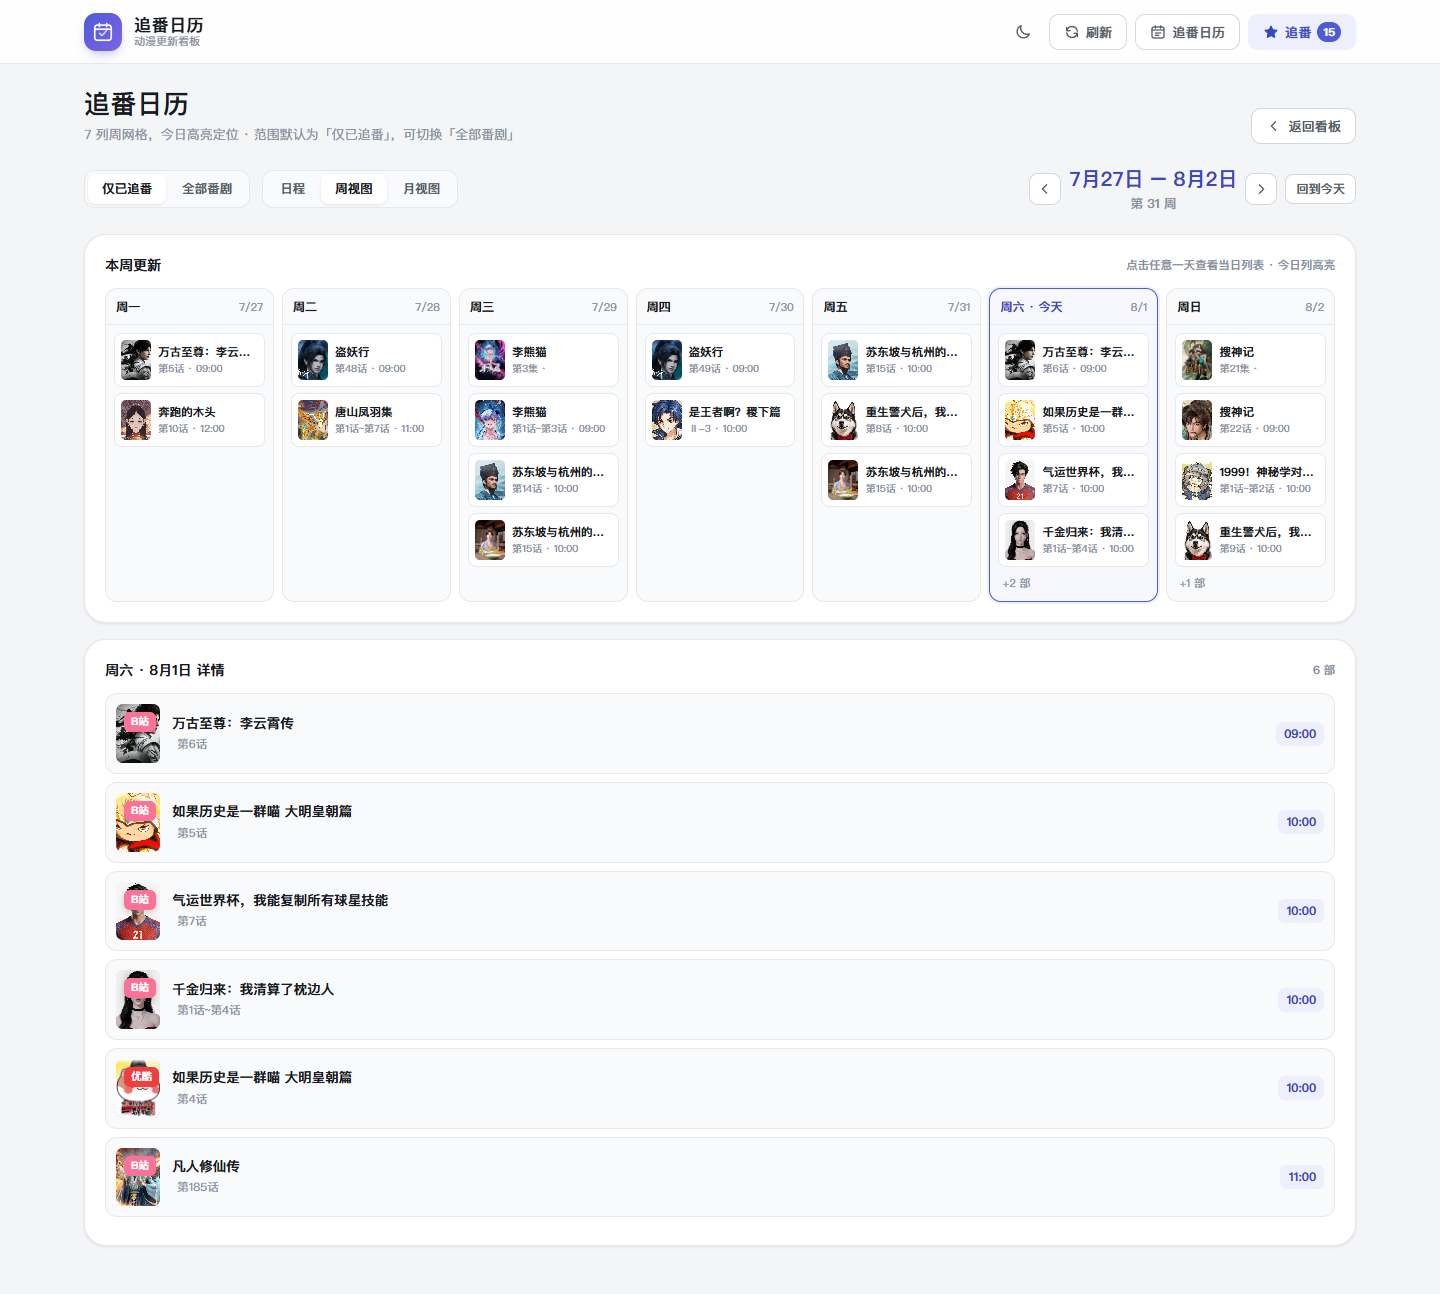
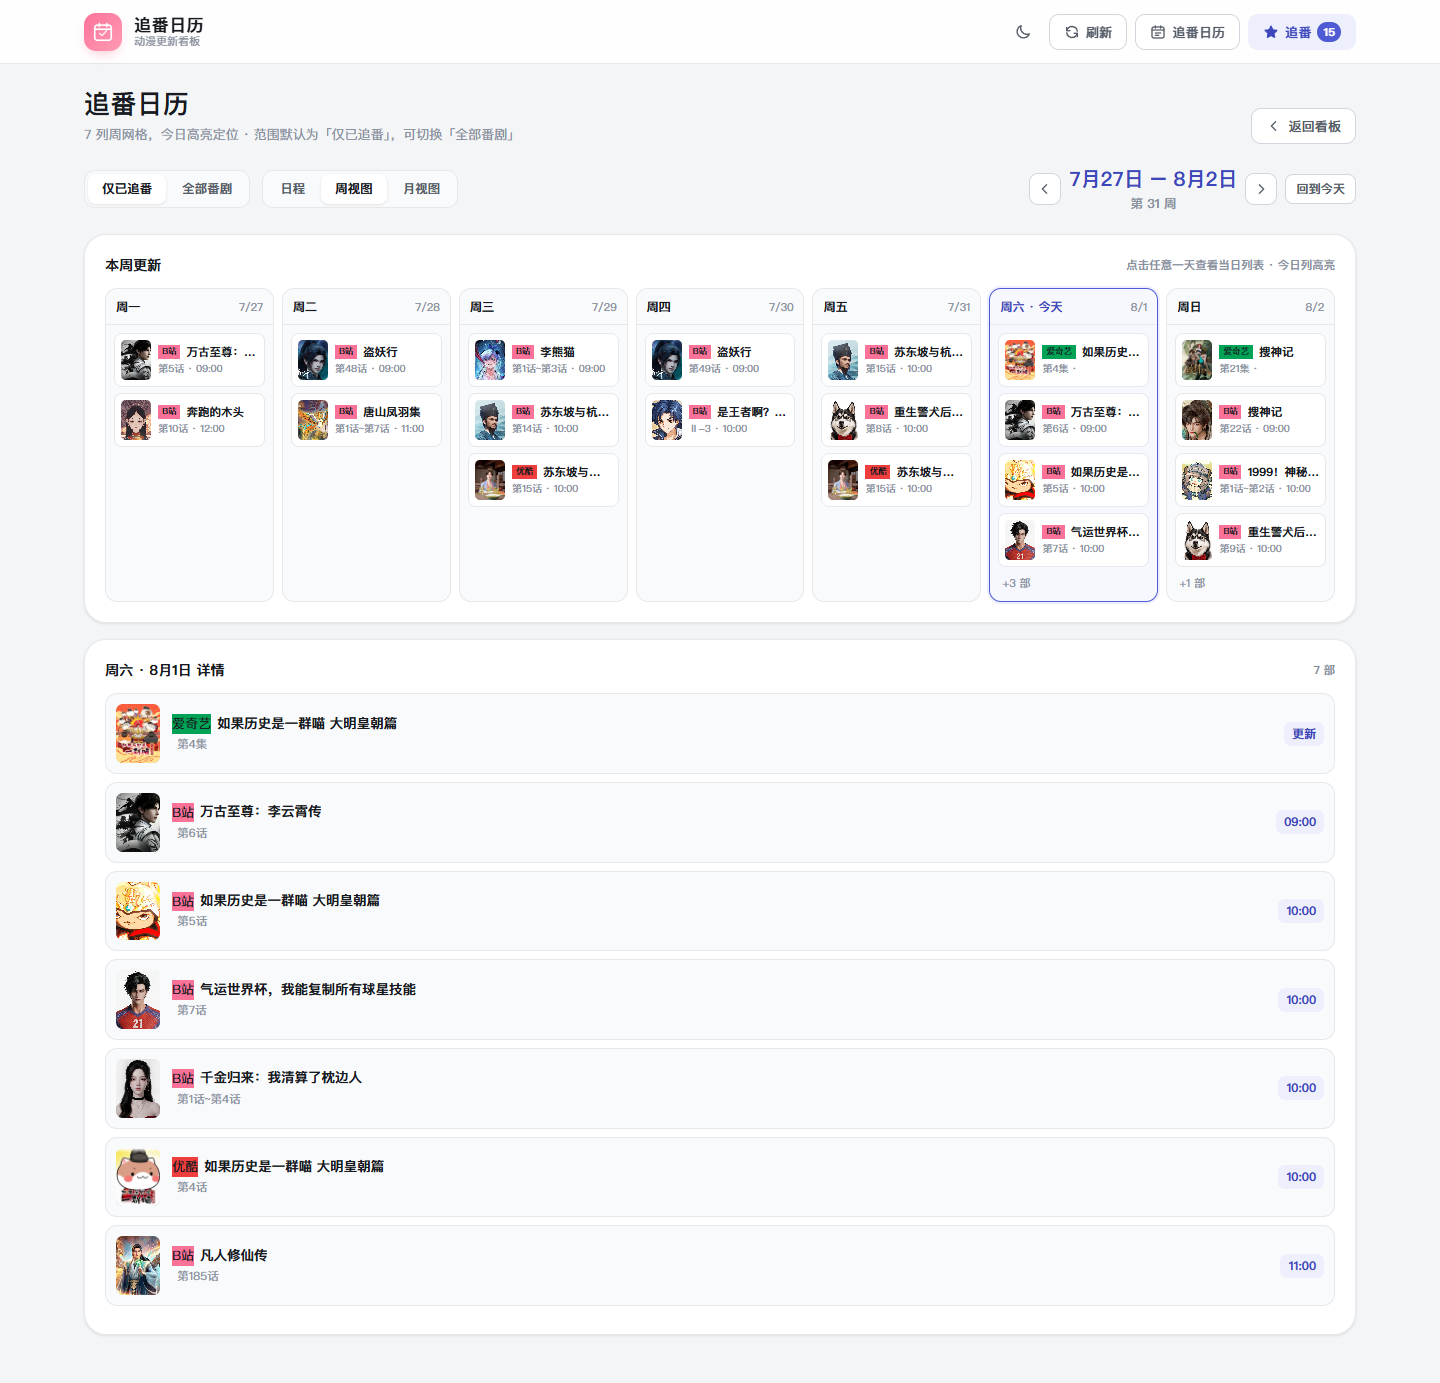
feat: calendar plat-chip before title, 15-min filter, follow page inline info, pink brand mark, cqdy badge

diff --git a/src/styles.css b/src/styles.css
@@ -126,12 +126,12 @@ svg { display: block; }
 .brand { display: flex; align-items: center; gap: var(--s3); }
 .brand-mark {
   width: 38px; height: 38px; border-radius: 12px;
-  background: linear-gradient(135deg, var(--accent), #7C63E8);
+  background: linear-gradient(135deg, #FB7299, #FF9BB3);
   color: #fff; display: grid; place-items: center;
-  box-shadow: 0 6px 14px -6px rgba(79,91,213,.55);
+  box-shadow: 0 6px 14px -6px rgba(251,114,153,.55);
 }
 .brand-mark svg { width: 22px; height: 22px; stroke: currentColor; stroke-width: 1.8; stroke-linecap: round; stroke-linejoin: round; }
-.brand-mark svg path:last-child { stroke: #CFD5FF; }
+.brand-mark svg path:last-child { stroke: #FFE3EC; }
 .brand-text { display: flex; flex-direction: column; line-height: 1.2; }
 .brand-name { font-size: 17px; font-weight: 700; letter-spacing: .5px; }
 .brand-sub { font-size: 11px; color: var(--ink-3); }
@@ -345,6 +345,7 @@ svg { display: block; }
 .tag.mianfei { background: var(--success-soft); color: var(--success); }
 .tag.shangxin { background: var(--danger-soft); color: var(--danger); }
 .tag.wanjie { background: var(--surface-2); color: var(--ink-3); border: 1px solid var(--line); }
+.tag.cqdy { background: color-mix(in srgb, var(--accent) 14%, var(--surface)); color: var(--accent-ink); border: 1px solid color-mix(in srgb, var(--accent) 40%, transparent); }
 
 /* ---------- Platform identity ---------- */
 .plat-logo { width: 16px; height: 16px; flex: none; display: inline-flex; border-radius: 5px; overflow: hidden; }
@@ -499,7 +500,7 @@ svg { display: block; }
   transition: border-color .16s;
 }
 .follow-item.open { border-color: var(--accent); }
-.fi-head { display: flex; align-items: center; gap: var(--s3); padding: var(--s3) var(--s4); cursor: pointer; }
+.fi-head { display: flex; align-items: center; gap: var(--s3); padding: var(--s3) var(--s4); }
 .fi-head .star-btn { position: static; width: 30px; height: 30px; flex: none; margin-left: 2px; background: transparent; box-shadow: none; color: #F5A623; }
 .fi-head .star-btn::before { display: none; }
 .fi-head .star-btn svg { fill: #F5A623; stroke: #F5A623; }
@@ -508,10 +509,7 @@ svg { display: block; }
 .fi-info { flex: 1; min-width: 0; }
 .fi-title { font-size: 15px; font-weight: 700; display: flex; align-items: center; gap: 6px; }
 .fi-sub { font-size: 12px; color: var(--ink-3); margin-top: 2px; }
-.fi-chevron { color: var(--ink-3); width: 20px; height: 20px; stroke: currentColor; stroke-width: 2; stroke-linecap: round; stroke-linejoin: round; transition: transform .18s; }
-.follow-item.open .fi-chevron { transform: rotate(180deg); }
-.fi-body { border-top: 1px solid var(--line); padding: var(--s3) var(--s4); display: none; flex-direction: column; gap: 8px; }
-.follow-item.open .fi-body { display: flex; }
+.fi-body { border-top: 1px solid var(--line); padding: var(--s3) var(--s4); display: flex; flex-direction: column; gap: 8px; }
 .fi-plat {
   display: flex; align-items: center; gap: 10px;
   padding: 8px 10px; border-radius: 10px; background: var(--surface-2); border: 1px solid var(--line);
@@ -552,6 +550,7 @@ svg { display: block; }
 .cal-item .poster { width: 44px; aspect-ratio: 3/4; border-radius: 7px; flex: none; }
 .cal-item .poster .ph-glyph { font-size: 11px; }
 .cal-item-main { flex: 1; min-width: 0; }
+.cal-item-title-row { display: flex; align-items: center; gap: 6px; min-width: 0; }
 .cal-item-title { font-size: 13.5px; font-weight: 700; overflow: hidden; text-overflow: ellipsis; white-space: nowrap; }
 .cal-item-meta { font-size: 11.5px; color: var(--ink-3); margin-top: 2px; display: flex; align-items: center; gap: 5px; }
 .cal-item-time {
@@ -564,6 +563,8 @@ svg { display: block; }
 .preview-item .poster { width: 34px; aspect-ratio: 3/4; border-radius: 6px; flex: none; }
 .preview-item .poster .ph-glyph { font-size: 9px; }
 .preview-item-main { flex: 1; min-width: 0; }
+.preview-item .plat-chip { font-size: 9px; height: 16px; padding: 0 5px; }
+.preview-item .cal-item-title-row .preview-item-title { flex: 1; }
 .preview-item-title { font-size: 12.5px; font-weight: 600; white-space: nowrap; overflow: hidden; text-overflow: ellipsis; }
 .preview-item-meta { font-size: 11px; color: var(--ink-3); }
 
@@ -588,6 +589,8 @@ svg { display: block; }
 .week-item .poster { width: 30px; aspect-ratio: 3/4; border-radius: 5px; flex: none; }
 .week-item .poster .ph-glyph { font-size: 8px; }
 .week-item-main { flex: 1; min-width: 0; }
+.week-item .plat-chip { font-size: 8.5px; height: 14px; padding: 0 4px; }
+.week-item .cal-item-title-row .week-item-title { flex: 1; }
 .week-item-title { font-size: 11.5px; font-weight: 600; white-space: nowrap; overflow: hidden; text-overflow: ellipsis; }
 .week-item-time { font-size: 10px; color: var(--ink-3); }
 

diff --git a/src/views/FollowView.tsx b/src/views/FollowView.tsx
@@ -1,5 +1,5 @@
 import { useRef, useState } from "react";
-import { ChevronDownIcon, DownloadIcon, ExternalIcon, SearchIcon, UploadIcon } from "../lib/icons";
+import { ChevronLeftIcon, DownloadIcon, ExternalIcon, SearchIcon, UploadIcon } from "../lib/icons";
 import { PLATFORMS, platShort, PlatformLogo } from "../lib/platforms";
 import { posterGlyph, posterStyle } from "../lib/poster";
 import { posterForTitle } from "../lib/items";
@@ -15,7 +15,6 @@ export function FollowView({ onNavigate }: { onNavigate: (p: Page) => void }) {
   const toast = useToast();
   const [query, setQuery] = useState("");
   const [filter, setFilter] = useState<Filter>("all");
-  const [open, setOpen] = useState<Set<string>>(() => new Set());
   const fileRef = useRef<HTMLInputElement>(null);
 
   const list = Object.values(follows)
@@ -25,15 +24,6 @@ export function FollowView({ onNavigate }: { onNavigate: (p: Page) => void }) {
       return okQ && okP;
     })
     .sort((a, b) => (a.followedAt || "").localeCompare(b.followedAt || ""));
-
-  const toggleOpen = (key: string) => {
-    setOpen((prev) => {
-      const next = new Set(prev);
-      if (next.has(key)) next.delete(key);
-      else next.add(key);
-      return next;
-    });
-  };
 
   const onExport = () => {
     const blob = new Blob([exportJson()], { type: "application/json" });
@@ -68,6 +58,9 @@ export function FollowView({ onNavigate }: { onNavigate: (p: Page) => void }) {
           <div className="sub">共 {count} 部 · 仅保存在本机（localStorage），支持导出/导入 JSON 备份</div>
         </div>
         <div style={{ display: "flex", gap: 8 }}>
+          <button className="btn ghost" onClick={() => onNavigate("home")}>
+            <ChevronLeftIcon /> 返回看板
+          </button>
           <button className="btn ghost" onClick={onExport}>
             <DownloadIcon /> 导出
           </button>
@@ -103,7 +96,7 @@ export function FollowView({ onNavigate }: { onNavigate: (p: Page) => void }) {
       </div>
       <div className="follow-list">
         {list.length
-          ? list.map((f) => <FollowItemRow key={f.key} follow={f} open={open.has(f.key)} onToggle={() => toggleOpen(f.key)} onRemove={() => { remove(f.key); toast("已取消追番"); }} />)
+          ? list.map((f) => <FollowItemRow key={f.key} follow={f} onRemove={() => { remove(f.key); toast("已取消追番"); }} />)
           : (
               <EmptyState title="没有匹配的追番" desc="试试其他关键词或平台筛选；点星标即可把想追的番收进来">
                 <button className="btn primary" onClick={() => onNavigate("home")}>
@@ -116,12 +109,13 @@ export function FollowView({ onNavigate }: { onNavigate: (p: Page) => void }) {
   );
 }
 
-function FollowItemRow({ follow, open, onToggle, onRemove }: { follow: FollowItem; open: boolean; onToggle: () => void; onRemove: () => void }) {
+function FollowItemRow({ follow, onRemove }: { follow: FollowItem; onRemove: () => void }) {
   const latest = [...follow.platforms].sort((a, b) => (b.updateTime ?? "").localeCompare(a.updateTime ?? ""))[0];
   const poster = posterForTitle(follow.title);
+  const sorted = [...follow.platforms].sort((a, b) => a.platform.localeCompare(b.platform));
   return (
-    <div className={`follow-item ${open ? "open" : ""}`}>
-      <div className="fi-head" onClick={onToggle}>
+    <div className="follow-item">
+      <div className="fi-head">
         <div className="poster" style={{ background: posterStyle(follow.title) }}>
           <span className="ph-mark" />
           {poster ? (
@@ -148,17 +142,13 @@ function FollowItemRow({ follow, open, onToggle, onRemove }: { follow: FollowIte
         <button
           className="star-btn on"
           aria-label="取消追番"
-          onClick={(e) => {
-            e.stopPropagation();
-            onRemove();
-          }}
+          onClick={onRemove}
         >
           <StarFill />
         </button>
-        <ChevronDownIcon className="fi-chevron" />
       </div>
       <div className="fi-body">
-        {follow.platforms.map((p) => (
+        {sorted.map((p) => (
           <div key={p.platform} className="fi-plat">
             <span className={`plat-chip ${p.platform}`}>{platShort(p.platform)}</span>
             <span className="plat-info">

diff --git a/src/views/CalendarView.tsx b/src/views/CalendarView.tsx
@@ -36,15 +36,18 @@ function CalItem({ item, toast }: { item: AnimeItem; toast: (m: string) => void 
         ) : (
           <span className="ph-glyph">{posterGlyph(item.title)}</span>
         )}
-        <span className={`plat-chip ${item.platform}`}>{platShort(item.platform)}</span>
       </div>
       <div className="cal-item-main">
-        <div className="cal-item-title">{item.title}</div>
+        <div className="cal-item-title-row">
+          <span className={`plat-chip ${item.platform}`}>{platShort(item.platform)}</span>
+          <span className="cal-item-title">{item.title}</span>
+        </div>
         <div className="cal-item-meta">
           <span className={`plat-dot ${item.platform}`} />
           {item.episode}
           {item.svip ? " · SVIP抢先" : ""}
           {item.badge === "独播" ? " · 独播" : ""}
+          {item.badge === "超前点映" ? " · 超前点映" : ""}
         </div>
       </div>
       <span className="cal-item-time">{item.updateTime || "更新"}</span>
@@ -211,10 +214,12 @@ function renderSchedule(calDate: Date, scopeItems: (d: Date) => AnimeItem[], toa
                 ) : (
                   <span className="ph-glyph">{posterGlyph(it.title)}</span>
                 )}
-                <span className={`plat-chip ${it.platform}`}>{platShort(it.platform)}</span>
               </div>
               <div className="preview-item-main">
-                <div className="preview-item-title">{it.title}</div>
+                <div className="cal-item-title-row">
+                  <span className={`plat-chip ${it.platform}`}>{platShort(it.platform)}</span>
+                  <span className="preview-item-title">{it.title}</span>
+                </div>
                 <div className="preview-item-meta">
                   <span className={`plat-dot ${it.platform}`} />
                   {it.episode} · {it.updateTime}
@@ -267,7 +272,10 @@ function renderWeek(
                 )}
               </div>
               <div className="week-item-main">
-                <div className="week-item-title">{it.title}</div>
+                <div className="cal-item-title-row">
+                  <span className={`plat-chip ${it.platform}`}>{platShort(it.platform)}</span>
+                  <span className="week-item-title">{it.title}</span>
+                </div>
                 <div className="week-item-time">{it.episode} · {it.updateTime}</div>
               </div>
             </div>

diff --git a/src/lib/shortFilter.ts b/src/lib/shortFilter.ts
@@ -58,5 +58,11 @@ export function useShortFilterVersion(): number {
 /** 应用短剧过滤：关闭时全部保留；开启时保留未知时长与 >= 阈值的条目 */
 export function applyShortFilter(items: AnimeItem[]): AnimeItem[] {
   if (!config.enabled) return items;
-  return items.filter((i) => i.duration == null || i.duration >= config.thresholdSec);
+  const strict = config.thresholdSec <= 60;
+  return items.filter((i) => {
+    if (i.duration != null && i.duration < config.thresholdSec) return false;
+    // 阈值 ≤ 1 分钟时额外排除优酷名称含标点符号的条目（AI 短剧常见特征，如「XX，XX」「XX：XX」）
+    if (strict && i.platform === "youku" && /[，。！？：；、]/.test(i.title)) return false;
+    return true;
+  });
 }

diff --git a/src/components/AnimeCard.tsx b/src/components/AnimeCard.tsx
@@ -9,6 +9,7 @@ function Tag({ item }: { item: AnimeItem }) {
   if (item.svip) return <span className="tag svip">SVIP抢先</span>;
   if (item.badge === "独播") return <span className="tag dubo">独播</span>;
   if (item.badge === "限免") return <span className="tag mianfei">限免</span>;
+  if (item.badge === "超前点映") return <span className="tag cqdy">超前点映</span>;
   return null;
 }
 

diff --git a/src/components/ShortFilterControl.tsx b/src/components/ShortFilterControl.tsx
@@ -5,6 +5,7 @@ const PRESETS = [
   { label: "3 分钟", sec: 180 },
   { label: "5 分钟", sec: 300 },
   { label: "10 分钟", sec: 600 },
+  { label: "15 分钟", sec: 900 },
 ];
 
 export function ShortFilterControl() {

diff --git a/outputs/design/qa/保真度台账-M3.md b/outputs/design/qa/保真度台账-M3.md
@@ -81,6 +81,21 @@
 
 爱奇艺仍混入 11 条「动态漫画」（时长 61~732s，按 5 分钟阈值拦不住）。同步清洗层改为**按内容类型直接排除**标题含「动态漫/AI动漫/泡面番」的条目（与时长无关），逐条记入 warnings；横幅文案同步说明。`data/updates.json` 重新生成（184 条，爱奇艺 35→24 条，动态漫画清零）。
 
+## 3.5 六次修复（用户反馈第 5 轮：10 项）
+
+1. **站点标识前置**：日历（CalItem / 明日预告 / 周视图）把平台标识从海报右上角移到剧集名称前（`.cal-item-title-row`：plat-chip 在前、标题在后）。
+2. **短剧过滤新增「15 分钟」**：`ShortFilterControl` 预置 900s 阈值。
+3. **跳转最新集**：爱奇艺 avlistinfo 富集把条目 URL 回写为该集正片 playUrl（原卡片链接多为 PV/预告）；优酷条目 URL 改为 `v_show/id_{videoId}.html` 播放页直达。
+4. **优酷标点过滤**：短剧过滤阈值 ≤1 分钟时额外排除名称含「，。！？：；、」的优酷条目（AI 短剧常见命名特征）。
+5. **优酷 AI 短剧（云月大陆等）**：其 show_page/播放页均被风控（`_____tmd_____/punish`），评论接口域名已被阿里回收、无法读取评论；改为①风控页快速失败（不再重试，避免拖垮同步超时）②豆瓣甄别兜底（见第 10 项）。
+6. **爱奇艺误过滤柯南 + 动态漫漏网**：`classifyAiShorts` 增加守卫——时长 ≥300s 的条目跳过评论判定（柯南 1497s 不再误判）；「全民御兽：开局山海经…动态漫画」等按标题内容类型排除仍生效（本轮 15 条动态漫全部排除）。
+7. **腾讯「超前点映」标签**：BADGE_RE 增加关键词，AnimeCard 标签与日历 meta 同步显示。
+8. **站点 LOGO 底色改粉红**：`.brand-mark` 改为 `linear-gradient(135deg,#FB7299,#FF9BB3)`。
+9. **追番页**：移除下拉栏与箭头，平台信息直接上卡常显；页头新增「返回看板」按钮。
+10. **豆瓣甄别（新增 `scripts/douban.mjs`）**：仅对优酷/爱奇艺「时长缺失或 <1 分钟」条目查询豆瓣影视搜索（cat=1002）——精确命中且「暂无评分」→ 疑似 AI 短剧丢弃（白名单保护正剧，如 B 站国创《苏东坡与杭州的故事》）；有评分 → 保留；未精确命中/查询失败 → 保留（防误伤师兄啊师兄、斗罗大陆5 等别名/收录差异剧）；每次同步豆瓣查询上限 10 次、间隔 2s，命中验证码 fail-open（实测 ~15 次触发反爬验证码，与用户提示一致）。
+
+验证：`work/app-qa.mjs`、`work/m3-qa.mjs`、`work/verify-ui-changes.mjs` 全部断言通过（新增 plat-chip 前置、追番页常显、粉红 LOGO、15 分钟选项断言）；`pnpm build` 通过；`data/updates.json` 重新生成（187 条：B 站 33 / 优酷 94 / 腾讯 33 / 爱奇艺 27），爱奇艺条目 URL 已为正片直达、优酷为 v_show 直达。
+
 ## 4. 有意偏差（数据驱动，非布局变更）
 
 - 页头副标题显示真实数据周范围与同步时间（原型为示例固定值）。

diff --git a/AGENTS.md b/AGENTS.md
@@ -10,9 +10,9 @@
 
 - `CONTENT_BLOCKLIST`（小课堂/发布会/预告/片花/花絮/幕后/访谈/见面会/先导/抢先看）**只影响最新集解析**，不参与周表过滤；周表按平台原始更新数据展示。
 - 追番日历与「今日追番更新」默认**仅已追番**，可切换全部番剧。
-- 短剧过滤（前端开关）：同步**保留**全部已知时长条目（含 <300s 短条目）；前端「短剧过滤」默认开启、阈值默认 300s 可调（localStorage 键 `anime-calendar.shortfilter.v1`），关闭时展示全部。
+- 短剧过滤（前端开关）：同步**保留**全部已知时长条目（含 <300s 短条目）；前端「短剧过滤」默认开启、阈值默认 300s 可调（1/3/5/10/15 分钟，localStorage 键 `anime-calendar.shortfilter.v1`），关闭时展示全部；阈值 ≤1 分钟时额外排除优酷名称含标点符号（，。！？：；、）的条目。
 - 时长富集：B站季分集接口 `api.bilibili.com/pgc/view/web/season?season_id=`（毫秒，按 episode_id 匹配、正片最新集兜底）；优酷 show_page 内联时长（秒/ISO 8601）优先 + 播放页 `pageMap.extra.duration` 兜底；爱奇艺专辑分集接口 `pcw-api.iqiyi.com/albums/album/avlistinfo?aid=`（按集数匹配、最新集兜底）。
-- 内容类型排除：标题含「动态漫/AI动漫/泡面番」（AI 生成短剧）的条目在同步时直接丢弃并记入 `warnings`（与时长无关）；爱奇艺另以评论区「AI 关键字 + 负面情绪」启发式过滤（限流时优雅降级）。
+- 内容类型排除：标题含「动态漫/AI动漫/泡面番」（AI 生成短剧）的条目在同步时直接丢弃并记入 `warnings`（与时长无关）；爱奇艺另以评论区「AI 关键字 + 负面情绪」启发式过滤（限流时优雅降级）；优酷/爱奇艺「时长缺失或 <1 分钟」条目追加豆瓣影视搜索甄别——精确命中且「暂无评分」丢弃（白名单保护正剧），未命中/查询失败保留，每次同步查询上限 10 次、间隔 2s（反爬约束，`scripts/douban.mjs`）。
 - 腾讯更新规则：卡片下方「每周X…」规则文案入库为 `rule` 字段；SVIP 抢先去重仅限卡片文案含 SVIP 的相邻同日集重复。
 - 本地存储键：追番 `anime-calendar.follows.v1`；主题 `anime-calendar.theme.v1`。
 

diff --git a/README.md b/README.md
@@ -32,11 +32,11 @@ GitHub Pages 静态前端 + GitHub Actions 定时数据管道：
 ```
 Actions（cron 0 11,23 * * * UTC + workflow_dispatch + push）
   → npm ci → playwright install chromium
-  → node scripts/sync.mjs（抓取四平台 → 时长富集（B站季分集接口 / 腾讯卡片 / 优酷 show_page+播放页 / 爱奇艺 avlistinfo 分集接口）→ 短条目保留 + AI 短剧关键词/评论区启发式兜底 → SVIP 抢先去重 → 最新集解析 → 写 data/updates.json）
+  → node scripts/sync.mjs（抓取四平台 → 时长富集（B站季分集接口 / 腾讯卡片 / 优酷 show_page+播放页 / 爱奇艺 avlistinfo 分集接口）→ 短条目保留 + AI 短剧关键词/评论区启发式兜底 + 豆瓣甄别（优酷/爱奇艺缺失时长条目，限额防反爬）→ SVIP 抢先去重 → 最新集解析 → 写 data/updates.json）
   → vite build → actions/deploy-pages 发布 dist/
 ```
 
-前端「短剧过滤」开关（默认开启、阈值可调 1/3/5/10 分钟）：仅隐藏展示，数据仍保留，关闭后可见全部条目。
+前端「短剧过滤」开关（默认开启、阈值可调 1/3/5/10/15 分钟）：仅隐藏展示，数据仍保留，关闭后可见全部条目；阈值 ≤1 分钟时额外排除优酷名称含标点符号的 AI 短剧条目。
 
 前端构建时读取 `data/updates.json`（结构与 `AnimeItem` 契约一致，仓库内为最近一次同步结果）。单平台抓取失败时输出 `error` 字段并沿用上次成功数据，只有完全无法产出数据时同步才退出非零。
 
